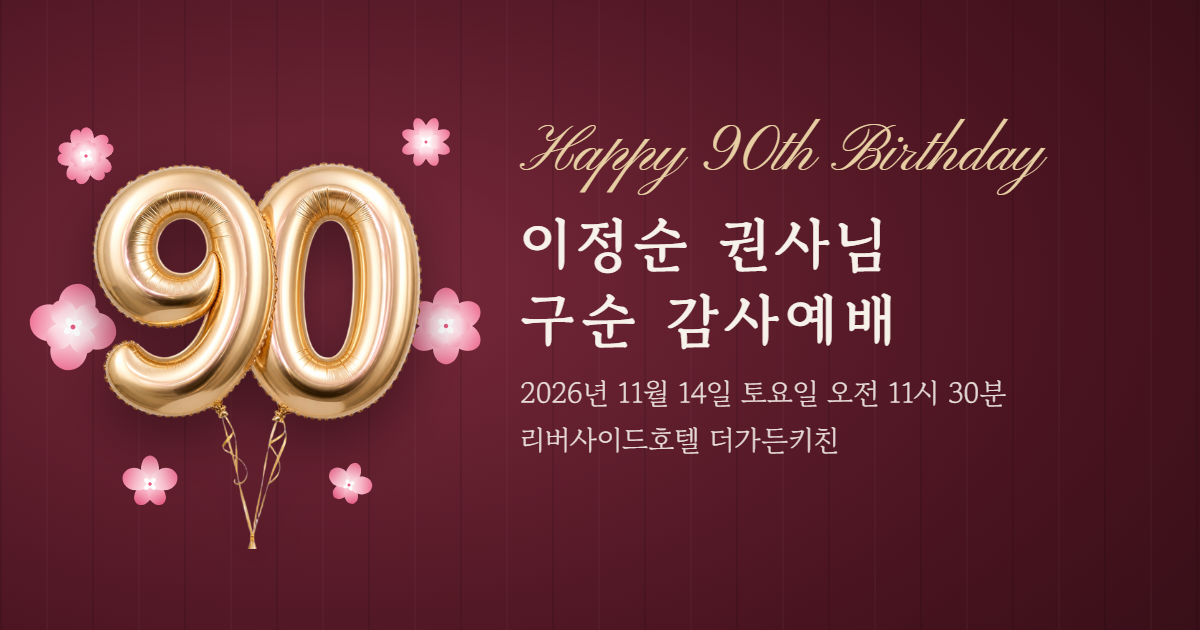
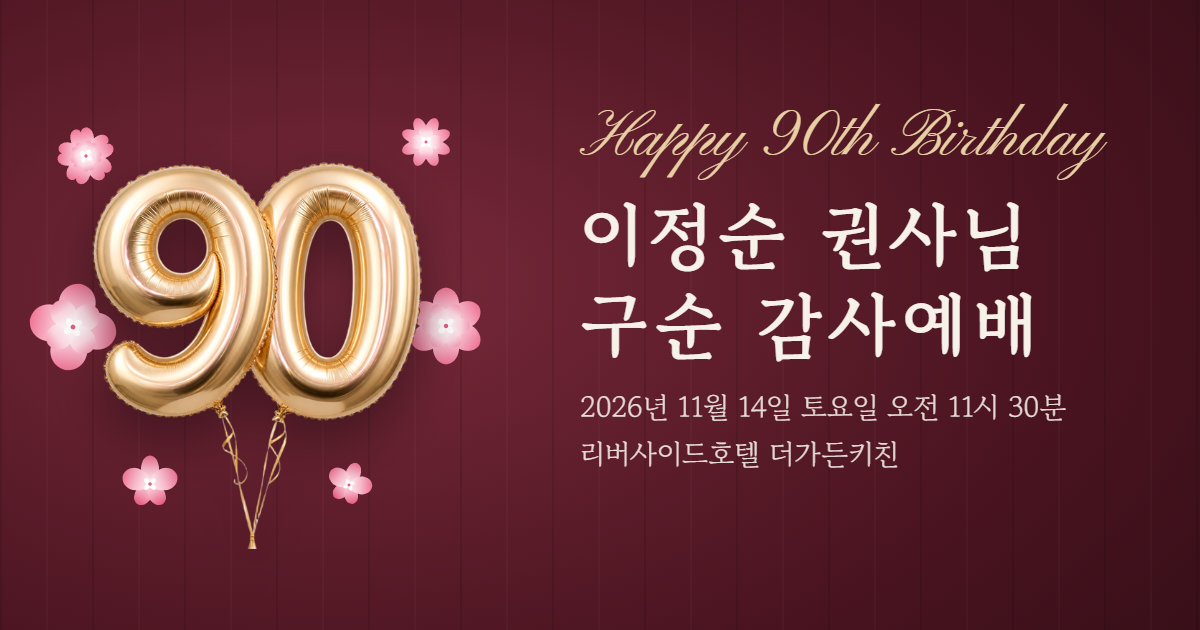
미리보기 이미지: 제목 크게, 글자 오른쪽으로

Changed region(s): [[0.4317, 0.181, 0.925, 0.573], [0.4317, 0.6032, 0.8942, 0.754]]

diff --git a/index.html b/index.html
@@ -15,7 +15,7 @@
 <meta property="og:type" content="website">
 <meta property="og:title" content="이정순 권사님 구순 감사예배에 초대합니다">
 <meta property="og:description" content="11월 14일 토요일 오전 11시 30분, 리버사이드호텔 더가든키친">
-<meta property="og:image" content="https://happy-90th.github.io/og.png">
+<meta property="og:image" content="https://happy-90th.github.io/og.png?v=2">
 <meta property="og:image:width" content="1200">
 <meta property="og:image:height" content="630">
 <meta property="og:url" content="https://happy-90th.github.io/">
